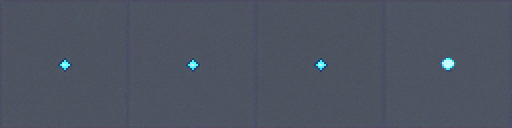
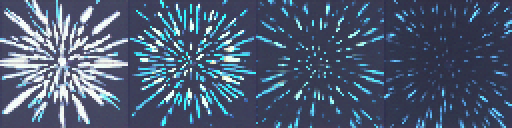
feat(combat): 戰鬥員接 PixelLab anim 條 + 重生 blue/Luannu attack
BaseCombatant.gd：
- 加 ANIM_LOOKUP 表（11 actor texture basename → actor_id）
- set_combatant_sprite() 先試載 anim/<id>/idle.png 啟 4 fps 循環，
  找不到才退回靜態貼圖
- _process() 每幀依累計時間切 AtlasTexture 4 幀（idle 4fps，
  action 8fps）
- _on_combatant_damaged() 受擊時觸發 anim hit (one-shot 播完
  自動回 idle)
- play_attack_animation() 同步觸發 anim attack
- death 暫保留既存 AnimationPlayer 流程（fade/destroy）

AVD 實機驗證：
- Tongji 戰鬥場景現顯示新 PixelLab pixel anim（紅頭巾 + 赤裸 +
  紅褲），明顯不同於舊 portraits_v3 立繪
- 4 連拍 md5 全不同 → frame 切換 work

重生：
- firework_burst_sheet_blue.png：原版 model 沒展開，重寫 prompt
  強調「massive explosion / dramatic change」後完美
- character_luannu/attack.png：原版 pose 過靜態，加 actor 專屬
  override prompt 強調「robe billowing wildly / each frame
  radically different」後 4 幀差異明顯

腳本擴充：
- pixellab_gen_anim_batch.py 加 firework phase skip-existing 邏輯
- 加 STATE_ACTIONS_OVERRIDES 機制讓個別 actor+state 用客製 prompt

diff --git a/scripts/tools/pixellab_gen_anim_batch.py b/scripts/tools/pixellab_gen_anim_batch.py
@@ -148,6 +148,15 @@ STATE_ACTIONS = {
     "death":  "collapse and fade away",
 }
 
+# 個別 actor + state 的覆寫 prompt（若需要更強動感才覆寫）
+STATE_ACTIONS_OVERRIDES: dict[tuple[str, str], str] = {
+    ("character_luannu", "attack"): (
+        "swing spirit brush forward in dramatic arc, robe and sash billowing wildly, "
+        "embers and sacred fire trailing from brush tip, large stride forward, "
+        "each frame radically different pose"
+    ),
+}
+
 STATES = ["idle", "attack", "defend", "hit", "death"]
 ACTORS = list(ACTOR_SOURCES.keys())
 
@@ -232,8 +241,10 @@ def phase_firework(api_key: str) -> None:
          "exploding red firework: tiny bright dot, then expanding crimson rays radiating outward, "
          "peak burst with white-gold core and red trails, fading with embers, final spark"),
         ("blue",  "firework_burst_sheet_blue.png",  "vivid cyan azure and royal blue",
-         "exploding blue firework: tiny bright cyan dot, then expanding azure rays, "
-         "peak burst with white core and indigo trails, fading with starry sparks, final spark"),
+         "massive blue firework explosion sequence: small ignition flash, then rapidly expanding "
+         "bright cyan and electric blue rays radiating outward across the entire frame, peak burst "
+         "filling frame with white-hot center and indigo trails, then dissipating into scattered blue "
+         "sparks. Each frame must show clear progression and dramatic change."),
         ("green", "firework_burst_sheet_green.png", "vivid emerald and jade green",
          "exploding green firework: tiny bright lime dot, then expanding emerald rays, "
          "peak burst with white-yellow core and jade trails, fading with mint embers, final spark"),
@@ -252,6 +263,10 @@ def phase_firework(api_key: str) -> None:
     color_rgb = {"red": (255, 60, 30), "blue": (60, 140, 255), "green": (80, 230, 120)}
 
     for color, fname, palette_hint, action in color_specs:
+        out = PIXELLAB_DIR / fname
+        if out.exists():
+            print(f"  {fname} → already exists, skip")
+            continue
         ref_b64 = _make_ref(color_rgb[color])
         print(f"  {fname}…")
         payload = {
@@ -336,7 +351,7 @@ def phase_animations(api_key: str, actors: list[str] | None = None) -> None:
             if out.exists():
                 print(f"[{call_i}/{total}] {actor_id}/{state} → already exists, skip")
                 continue
-            action = STATE_ACTIONS[state]
+            action = STATE_ACTIONS_OVERRIDES.get((actor_id, state), STATE_ACTIONS[state])
             print(f"[{call_i}/{total}] {actor_id}/{state}: {action[:40]}…")
             payload = {
                 "description": desc,
